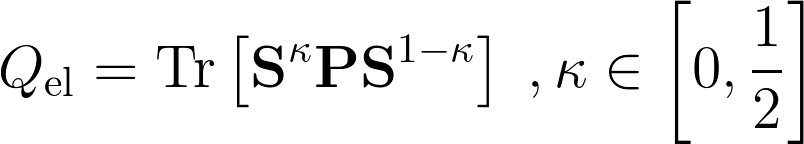
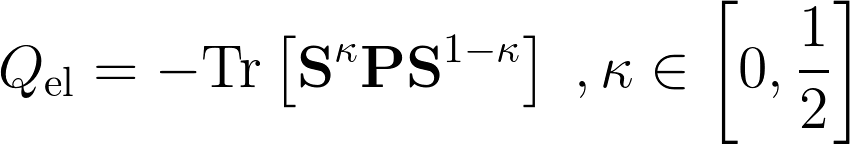
Figures ammended with lacking minus sign

diff --git a/README.md b/README.md
@@ -8,8 +8,8 @@ Quantum Chemistry Workshop
 Quantum Chemistry with Python - Developing Own Scientific Ideas
 
 # Table of Contents:
- * [Psithon: Python and Psi4 Combined](https://github.com/globulion/qc-workshop/tree/master/tutor/README.md)
- * [Project I: Population Analyses](https://github.com/globulion/qc-workshop/tree/master/tutor/README-i.md)
- * [Project II: Configuration Interaction with Singles](https://github.com/globulion/qc-workshop/tree/master/tutor/README-ii.md)
- * [Project III: Trajectory Surface Hopping Dynamics](https://github.com/globulion/qc-workshop/tree/master/tutor/README-iii.md)
+ * [Psithon: Python and Psi4 Combined](https://github.com/globulion/qc-workshop/blob/master/tutor/psithon/README.md)
+ * [Project I: Population Analyses](https://github.com/globulion/qc-workshop/blob/master/tutor/project_1/README-i.md)
+ * [Project II: Configuration Interaction with Singles](https://github.com/globulion/qc-workshop/blob/master/tutor/project_2/README-ii.md)
+ * [Project III: Trajectory Surface Hopping Dynamics](tutor/project_3/README-iii.md)
 
